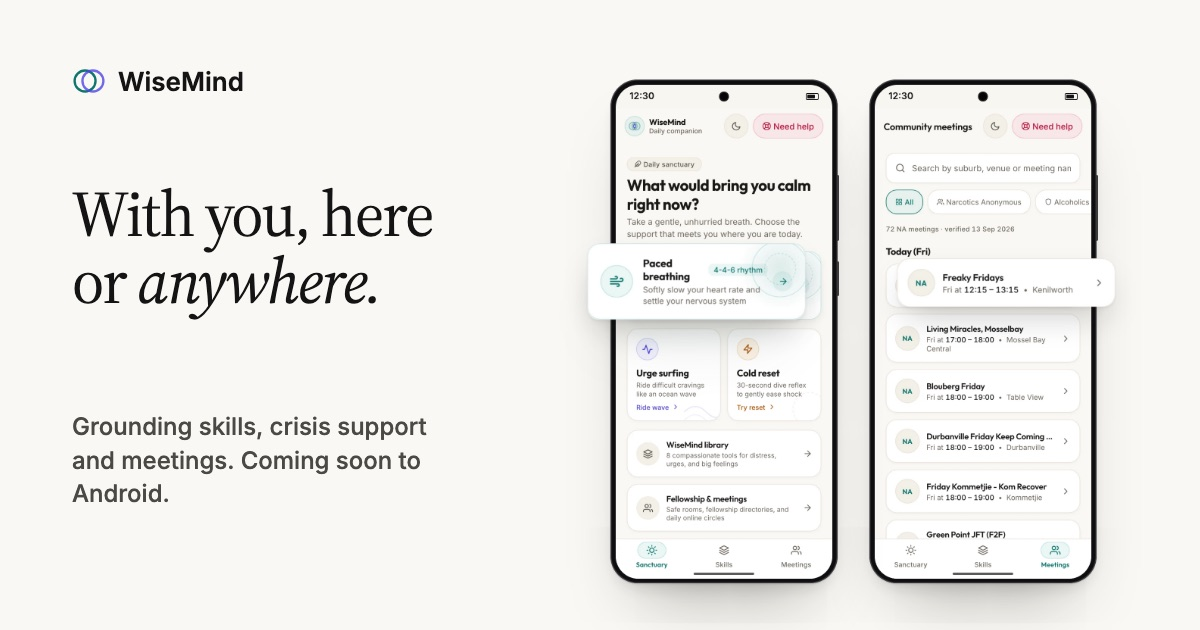
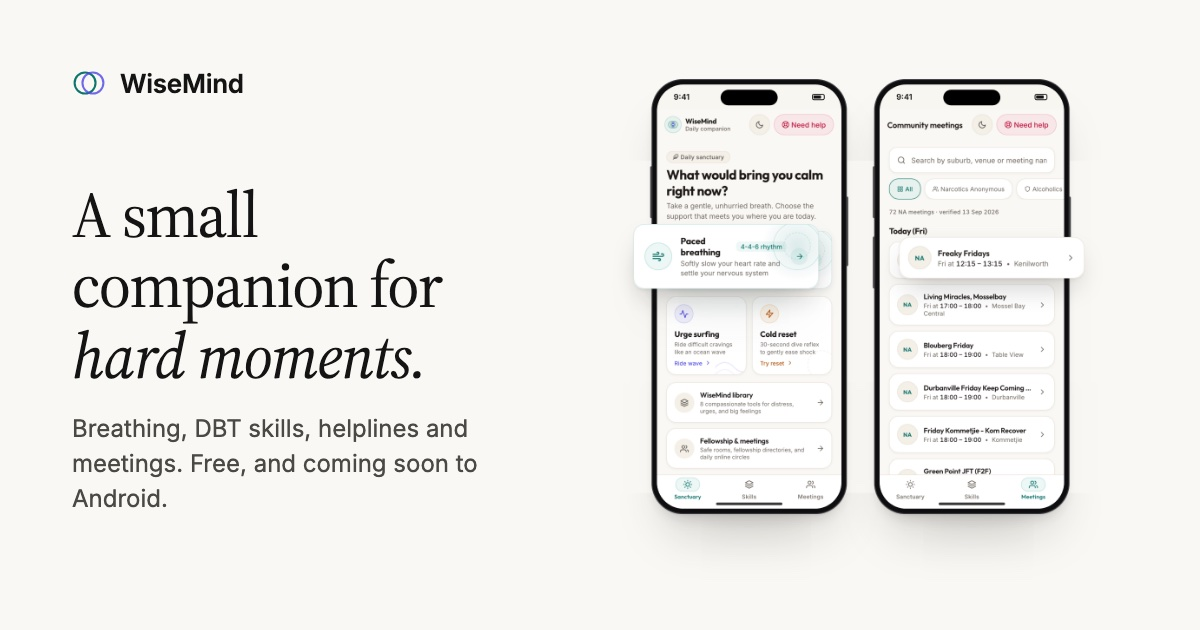
Rewrite the page copy in a plainer, warmer voice and match it to the app
Drops the taglines, corrects claims the app does not back (stored check-ins,
WhatsApp in-app, urge timing, skill count), and regenerates the sharing image
with the new headline.

diff --git a/index.html b/index.html
@@ -4,7 +4,7 @@
 <meta charset="utf-8">
 <meta name="viewport" content="width=device-width, initial-scale=1">
 <title>WiseMind: Grounding and Recovery Companion for Android</title>
-<meta name="description" content="Paced breathing, urge surfing, DBT skills and Cape Town AA and NA meetings in one free Android app. No account, no tracking, and it works offline.">
+<meta name="description" content="Breathing exercises, DBT skills, South African helplines and Western Cape NA meetings in one free Android app. No account, no tracking, and it works offline.">
 <link rel="canonical" href="https://deannorman.github.io/wisemind-site/">
 <meta name="theme-color" content="#FAF8F4">
 <link rel="icon" type="image/png" sizes="32x32" href="assets/icons/icon-32.png">
@@ -13,23 +13,23 @@
 <meta property="og:type" content="website">
 <meta property="og:site_name" content="WiseMind">
 <meta property="og:title" content="WiseMind: Grounding and Recovery Companion for Android">
-<meta property="og:description" content="Paced breathing, urge surfing, DBT skills and Cape Town AA and NA meetings in one free Android app. No account, no tracking, and it works offline.">
+<meta property="og:description" content="Breathing exercises, DBT skills, South African helplines and Western Cape NA meetings in one free Android app. No account, no tracking, and it works offline.">
 <meta property="og:url" content="https://deannorman.github.io/wisemind-site/">
 <meta property="og:image" content="https://deannorman.github.io/wisemind-site/assets/img/og-image.jpg">
 <meta property="og:image:width" content="1200">
 <meta property="og:image:height" content="630">
-<meta property="og:image:alt" content="WiseMind home and meetings screens on two Android phones, beside the line: With you, here or anywhere.">
+<meta property="og:image:alt" content="WiseMind home and meetings screens on two Android phones, beside the line: A small companion for hard moments.">
 <meta property="og:locale" content="en_ZA">
 <meta name="twitter:card" content="summary_large_image">
 <meta name="twitter:title" content="WiseMind: Grounding and Recovery Companion for Android">
-<meta name="twitter:description" content="Paced breathing, urge surfing, DBT skills and Cape Town AA and NA meetings in one free Android app. No account, no tracking, and it works offline.">
+<meta name="twitter:description" content="Breathing exercises, DBT skills, South African helplines and Western Cape NA meetings in one free Android app. No account, no tracking, and it works offline.">
 <meta name="twitter:image" content="https://deannorman.github.io/wisemind-site/assets/img/og-image.jpg">
 <script type="application/ld+json">
 {
   "@context": "https://schema.org",
   "@type": "SoftwareApplication",
   "name": "WiseMind",
-  "description": "A grounding and recovery companion: paced breathing, urge surfing, cold reset, DBT skills and Cape Town AA and NA meetings. No account, no tracking, works offline.",
+  "description": "A small, free grounding and recovery companion: paced breathing, urge surfing, cold reset, DBT skills, South African helplines and Western Cape NA meetings. No account, no tracking, works offline.",
   "operatingSystem": "Android",
   "applicationCategory": "HealthApplication",
   "url": "https://deannorman.github.io/wisemind-site/",
@@ -309,7 +309,6 @@
   .foot .foot-title { font-size: 12px; font-weight: 600; letter-spacing: .12em; text-transform: uppercase; color: var(--muted); margin-bottom: 16px; }
   .foot ul { list-style: none; } .foot li { padding: 4px 0; }
   .foot .brand { color: var(--ink); margin-bottom: 14px; }
-  .foot .motto { font: italic 400 20px/1.3 'Source Serif 4', Georgia, serif; color: var(--ink); margin-top: 24px; }
   .foot a:hover { color: var(--ink); }
   .foot-lines li { display: flex; justify-content: space-between; gap: 16px; }
   .foot-lines a { color: var(--ink); font-weight: 500; white-space: nowrap; }
@@ -464,7 +463,7 @@
     <p class="opener" aria-hidden="true">Take a breath</p>
     <div class="card">
       <p class="kicker">WiseMind for Android</p>
-      <h1>With you, here or <em>anywhere.</em></h1>
+      <h1>A small companion for <em>hard moments.</em></h1>
       <ol class="toc">
         <li><a href="#why"><span>(1)</span><span>Why WiseMind</span></a></li>
         <li><a href="#tools"><span>(2)</span><span>Grounding tools</span></a></li>
@@ -476,7 +475,7 @@
 </header>
 
 <section class="read" id="read">
-  <p class="lede">Grounding skills, crisis support and fellowship meetings, on hand the moment you need them. No account, no tracking, and it works offline.</p>
+  <p class="lede">Breathing exercises, DBT skills, helplines and local meetings, kept together on your phone for when things get hard. There is no account, nothing is tracked, and it works offline.</p>
 </section>
 
 <section class="stage" aria-label="App preview">
@@ -511,14 +510,14 @@
 
 <section class="sec-slim" id="tools">
   <div class="reveal"><h2>Grounding tools</h2>
-    <p class="sub">Distress lives in the body first: the heart rate, the breath, the nervous system. You can't talk yourself out of an adrenaline flood, so every tool starts with the body.</p></div>
+    <p class="sub">When you are overwhelmed, it is hard to think your way out. These tools start with something simpler: your breath, your heartbeat, a splash of cold water.</p></div>
 </section>
 
 <section class="ch ch-breath" aria-labelledby="t-breath">
   <div class="glow" aria-hidden="true"></div>
   <div class="ch-inner">
     <div class="ch-copy reveal"><h3 id="t-breath">Breathe <em>out</em> longer.</h3>
-      <p><strong>Paced breathing</strong> makes each out-breath longer than the in-breath. That engages the vagus nerve, slows the heart and eases fight-or-flight within minutes.</p>
+      <p><strong>Paced breathing</strong> makes each out-breath a little longer than the in-breath. It is one of the gentlest ways to tell your body it is safe to slow down.</p>
       <ul class="meta"><li>Inhale 4s</li><li>Hold 4s</li><li>Exhale 6s</li></ul></div>
     <div class="ch-device"><div class="phone solo"><div class="frame"><div class="screen">
         <div class="cam"></div><div class="status"><span>12:30</span><span class="batt"></span></div>
@@ -531,8 +530,8 @@
   <div class="ch-photo"><img src="assets/img/intro-right.webp" width="2000" height="1116" srcset="assets/img/intro-right-1080.webp 1080w, assets/img/intro-right.webp 2000w" sizes="100vw" loading="lazy" alt=""></div><div class="grain" aria-hidden="true"></div>
   <div class="ch-inner">
     <div class="ch-copy reveal"><h3 id="t-urge">Ride the <em>wave.</em></h3>
-      <p><strong>Urge surfing</strong> treats a craving like a wave. It crests at around ten minutes, then fades. The timer keeps you with it without acting on it.</p>
-      <ul class="meta"><li>Wave progression</li><li>Body tracking</li><li>No action</li></ul></div>
+      <p><strong>Urge surfing</strong> treats a craving like a wave: it rises, peaks and passes, usually within 15 to 20 minutes. The timer keeps you company while it does, so you can let it pass without acting on it.</p>
+      <ul class="meta"><li>Wave progression</li><li>Body check-ins</li><li>Prompts every 30s</li></ul></div>
     <div class="ch-device"><div class="phone solo"><div class="frame"><div class="screen">
         <div class="cam"></div><div class="status"><span>12:30</span><span class="batt"></span></div>
         <img src="assets/screens/24-urge-running.webp" width="780" height="1688" alt="Urge surfing timer following a wave" loading="lazy"><div class="home-ind"></div><div class="hole "></div>
@@ -544,7 +543,7 @@
   <div class="ch-photo"><img src="assets/img/ch-cold.webp" width="2000" height="1116" srcset="assets/img/ch-cold-1080.webp 1080w, assets/img/ch-cold.webp 2000w" sizes="100vw" loading="lazy" alt=""></div><div class="grain" aria-hidden="true"></div>
   <div class="ch-inner">
     <div class="ch-copy reveal"><h3 id="t-cold">Thirty seconds of <em>cold.</em></h3>
-      <p><strong>Cold reset</strong> uses cold water on the face to trigger the dive reflex, which slows the pulse by 10 to 25 beats a minute. The app counts you through it.</p>
+      <p><strong>Cold reset</strong> uses cold water on your face to set off the dive reflex, which slows your heart within seconds. It is the T in the DBT skill TIPP, and the app counts you through it.</p>
       <ul class="meta"><li>30s immersion</li><li>Dive reflex</li><li>TIPP skill</li></ul></div>
     <div class="ch-device"><div class="phone solo"><div class="frame"><div class="screen">
         <div class="cam"></div><div class="status"><span>12:30</span><span class="batt"></span></div>
@@ -556,8 +555,8 @@
 <section class="ch ch-skills" aria-labelledby="t-skills">
   <div class="ch-inner">
     <div class="ch-copy reveal"><h3 id="t-skills">Skills for a <em>tired</em> mind.</h3>
-      <p><strong>The DBT skills library</strong> turns STOP, TIPP, Wise Mind and more into short tap-through steps you can follow when thinking is hard.</p>
-      <ul class="meta"><li>8 skills</li><li>Offline</li><li>Step by step</li></ul></div>
+      <p><strong>The DBT skills library</strong> has STOP, TIPP, Wise Mind and more, written in plain words and broken into small steps you can follow when thinking is hard.</p>
+      <ul class="meta"><li>12 skills</li><li>Offline</li><li>Step by step</li></ul></div>
   </div>
   <div class="strip">
     <div class="phone solo"><div class="frame"><div class="screen">
@@ -583,8 +582,8 @@
   <div class="ch-photo"><img src="assets/img/ch-meet.webp" width="2000" height="1116" srcset="assets/img/ch-meet-1080.webp 1080w, assets/img/ch-meet.webp 2000w" sizes="100vw" loading="lazy" alt=""></div><div class="grain" aria-hidden="true"></div>
   <div class="ch-inner">
     <div class="ch-copy reveal"><h3 id="t-meet">A room, <em>whenever</em> you need one.</h3>
-      <p>Isolation feeds relapse. <strong>Meetings</strong> lists Western Cape NA rooms, in person and online, with directions one tap away. For AA, it links straight to AA South Africa's own meeting list and helpline.</p>
-      <ul class="meta"><li>In person</li><li>Online</li><li>Free and open</li></ul></div>
+      <p>Sometimes what helps most is being in a room with people who understand. <strong>Meetings</strong> lists NA meetings across the Western Cape, in person and online, with directions one tap away. For AA, it links straight to AA South Africa's own meeting list and helpline.</p>
+      <ul class="meta"><li>In person</li><li>Online</li><li>Directions</li></ul></div>
     <div class="ch-device"><div class="phone solo"><div class="frame"><div class="screen">
         <div class="cam"></div><div class="status"><span>12:30</span><span class="batt"></span></div>
         <img src="assets/screens/15-meeting-detail-sheet.webp" width="780" height="1688" alt="Meeting detail sheet with time, venue and directions" loading="lazy"><div class="home-ind"></div><div class="hole card-a"></div><div class="hole card-b"></div>
@@ -594,15 +593,15 @@
 
 <section class="band" id="principles" aria-label="Principles">
   <img src="assets/img/spare-lichen.webp" width="2000" height="1116" srcset="assets/img/spare-lichen-1080.webp 1080w, assets/img/spare-lichen.webp 2000w" sizes="100vw" loading="lazy" alt=""><div class="grain" aria-hidden="true"></div>
-  <h2 class="band-title">Built for the <em>worst</em> moment.</h2>
+  <h2 class="band-title">Kept <em>simple</em> on purpose.</h2>
 </section>
 <section class="sec" style="border-top:0">
-  <p class="principles-intro reveal">When someone opens an app in the middle of a panic attack or an urge, every extra screen is an obstacle. WiseMind holds to four rules.</p>
+  <p class="principles-intro reveal">If you open WiseMind in the middle of a panic attack or a craving, every extra screen gets in the way. So it keeps to four rules.</p>
   <div class="principles reveal">
-    <div><h3>No account walls</h3><p>No sign-up, no email check, no password between a person in crisis and the tools.</p></div>
-    <div><h3>Nothing leaves your phone</h3><p>Check-ins, urge notes and meeting searches are stored on your device only. No cloud analytics.</p></div>
-    <div><h3>Works offline</h3><p>Every timer, cue and meeting address is bundled in the app. It works in airplane mode and during loadshedding.</p></div>
-    <div><h3>A direct line to help</h3><p>One tap to 112, WhatsApp chat and <a class="inline" href="#support">South African helplines</a>, with nothing in between.</p></div>
+    <div><h3>No account</h3><p>No sign-up, email or password. You open it and it is ready.</p></div>
+    <div><h3>Nothing about you is kept</h3><p>The app never asks who you are and does not save or send anything about you. No analytics, no cloud.</p></div>
+    <div><h3>Works offline</h3><p>Every timer, skill and meeting address is inside the app, so it works in airplane mode and during loadshedding.</p></div>
+    <div><h3>A direct line to help</h3><p>112 and the <a class="inline" href="#support">South African helplines</a> are one tap away from any screen.</p></div>
   </div>
 </section>
 
@@ -622,24 +621,24 @@
     <li><span>Emergency services</span><a href="tel:112">112</a><small>From any mobile, 24 hours</small></li>
     <li><span>Suicide Crisis Helpline</span><a href="tel:0800567567">0800 567 567</a><small>SADAG, 24 hours</small></li>
     <li><span>Substance Abuse Helpline</span><a href="tel:0800121314">0800 12 13 14</a><small>24 hours, or SMS 32312</small></li>
-    <li><span>WhatsApp chat</span><a href="https://wa.me/27768822775">076 882 2775</a><small>Cipla Mental Health, 8am to 5pm</small></li>
+    <li><span>Cipla Mental Health Helpline</span><a href="tel:0800456789">0800 456 789</a><small>SADAG, 24 hours</small></li>
   </ul>
 </section>
 
 <section class="sec faq" id="faq">
   <h2 class="reveal faq-title">Questions</h2>
   <div class="reveal">
-    <details><summary>Why does WiseMind start with the body, not words?</summary><p>In acute distress, fight-or-flight pulls resources away from the parts of the brain that handle reasoning, so talking yourself down rarely works in the moment. Slow exhales and cold water brake the heart through the vagus nerve. Once the body feels safe, skills and words can take hold.</p></details>
-    <details><summary>Is WiseMind a replacement for therapy or medical care?</summary><p>No. WiseMind is an in-the-moment companion for regulation and recovery. It is designed to sit alongside therapy, psychiatry and twelve-step fellowship, not replace them. In an emergency, call 112 or the Suicide Crisis Helpline.</p></details>
+    <details><summary>Why does it start with breathing, not words?</summary><p>When you are flooded, the thinking part of your brain goes quiet, and it is hard to reason your way down. Slow breathing and cold water work on the body directly. Once you have settled a little, the skills are much easier to use.</p></details>
+    <details><summary>Is WiseMind a replacement for therapy or medical care?</summary><p>No. It is a pocket companion for the moments in between, not treatment. It works best alongside a therapist, a doctor or a fellowship. If you are in danger, call 112 or the Suicide Crisis Helpline on 0800 567 567.</p></details>
     <details><summary>Where does the meeting list come from?</summary><p>NA meetings come from the public NA Western Cape meeting list, refreshed before every release, and the app shows the date they were fetched. AA South Africa publishes its list only on its own site, so WiseMind links you there and to the AA helpline instead of copying it. Nothing in the list is made up.</p></details>
-    <details><summary>Do I need an internet connection?</summary><p>No. Every timer, skill and saved meeting is stored on your phone, so the app works in the mountains, during loadshedding or in airplane mode.</p></details>
-    <details><summary>What data does the app collect?</summary><p>None. There is no username, password, email or phone number, and no analytics trackers. Check-ins and preferences stay on your phone.</p></details>
+    <details><summary>Do I need an internet connection?</summary><p>No. Everything is inside the app, so it works in the mountains, during loadshedding or in airplane mode.</p></details>
+    <details><summary>What data does the app collect?</summary><p>None. There is no sign-up and nothing to type in, and the app does not save anything about you or send anything anywhere.</p></details>
   </div>
 </section>
 
 <section class="sec get" id="get">
-  <h2 class="reveal">Keep it <em>close.</em></h2>
-  <p class="sub reveal">Coming soon to Android, free. No account, and nothing to set up before it helps.</p>
+  <h2 class="reveal">Coming soon to <em>Android.</em></h2>
+  <p class="sub reveal">It will be free, with no account and nothing to set up. The link will be here the day it is on Google Play.</p>
   <img class="reveal" src="assets/img/phones-pair.webp" width="1380" height="1077" alt="WiseMind home and meetings screens" loading="lazy">
   <div class="store">
     <!-- TODO at launch: replace with Google's official "Get it on Google Play" badge linking to the listing -->
@@ -652,7 +651,7 @@
 
 <footer>
   <div class="foot">
-    <div><a class="brand" href="#">WiseMind</a><p>A companion for grounding, regulation and recovery fellowship, in Cape Town and anywhere.</p><p class="motto">Body first. Words second.</p></div>
+    <div><a class="brand" href="#">WiseMind</a><p>A small, free companion for grounding and recovery, made in Cape Town.</p></div>
     <div><p class="foot-title">Explore</p><ul><li><a href="#tools">Grounding tools</a></li><li><a href="#meetings">Meetings</a></li><li><a href="#principles">Principles</a></li><li><a href="#faq">FAQ</a></li><li><a href="#get">Coming soon</a></li></ul></div>
     <div><p class="foot-title">Crisis lines</p><ul class="foot-lines">
       <li><span>Emergency</span><a href="tel:112">112</a></li>
@@ -661,7 +660,7 @@
       <li><span>Substance Abuse</span><a href="tel:0800121314">0800 12 13 14</a></li>
       <li><span>WhatsApp chat</span><a href="https://wa.me/27768822775">076 882 2775</a></li></ul></div>
   </div>
-  <p class="legal">WiseMind works offline and keeps no cloud records. It is not a medical service.</p>
+  <p class="legal">WiseMind works offline and does not store anything about you. It is not a medical service.</p>
 </footer>
 
 </body>
